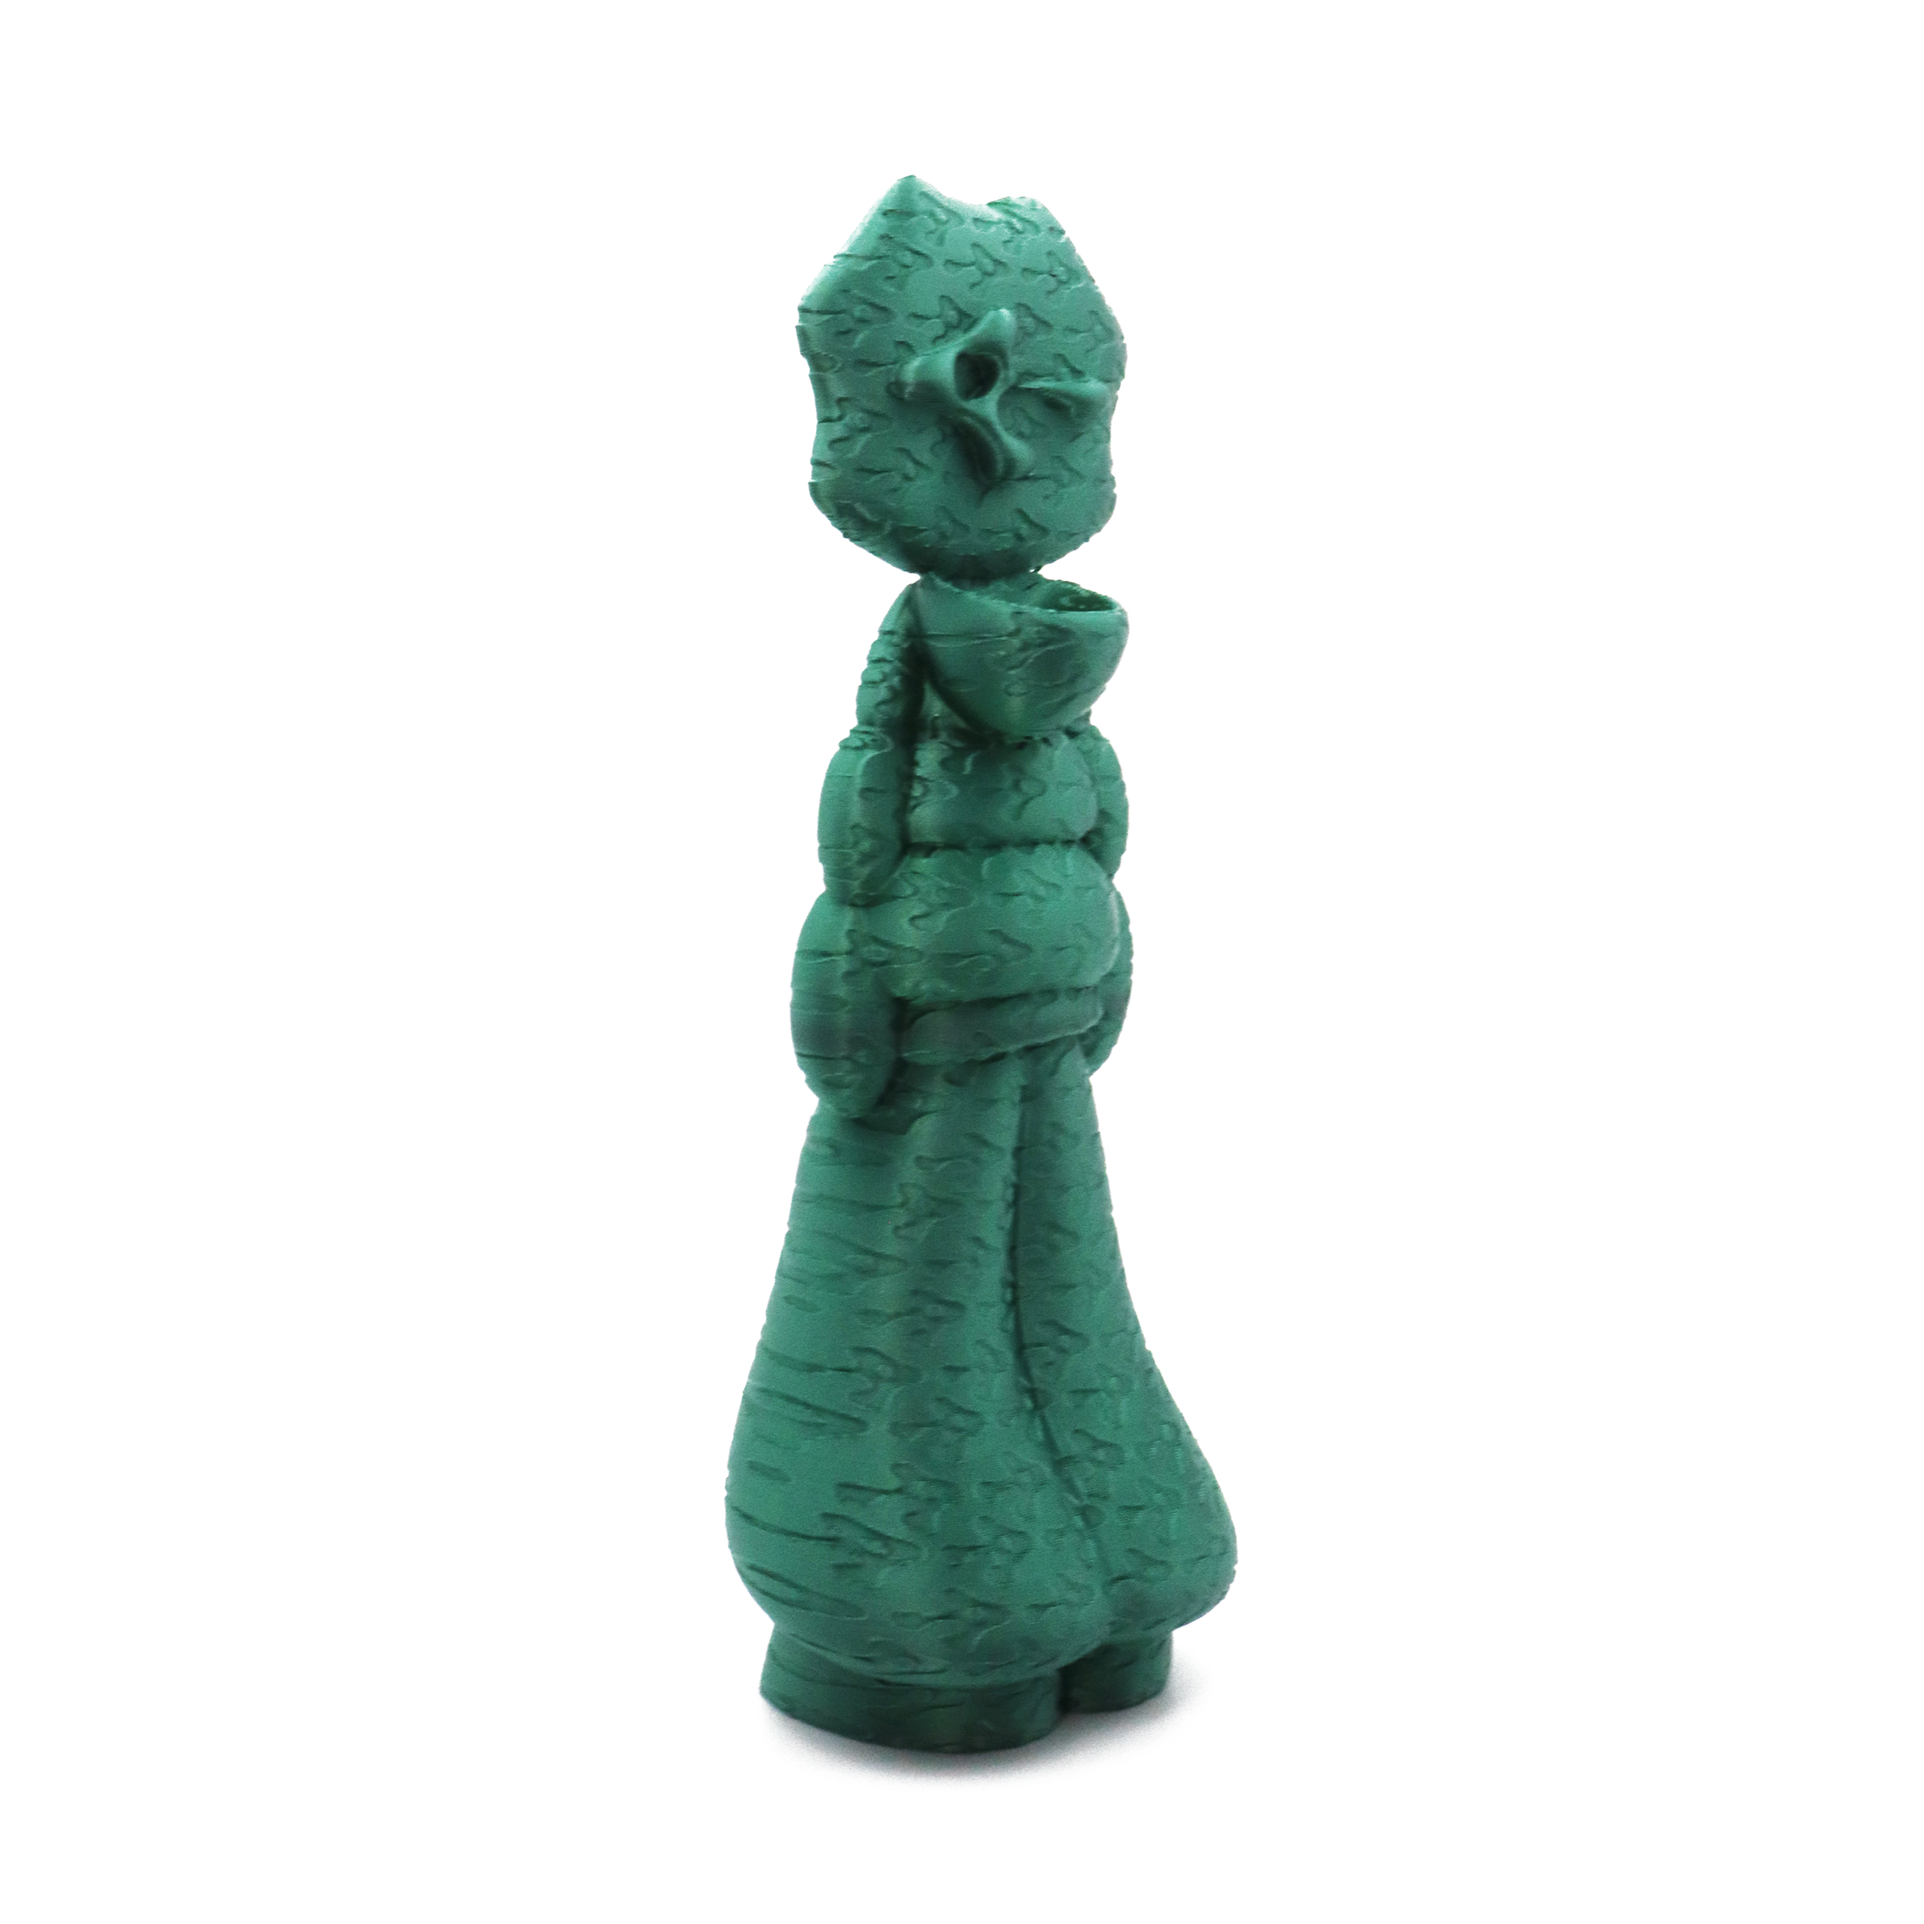
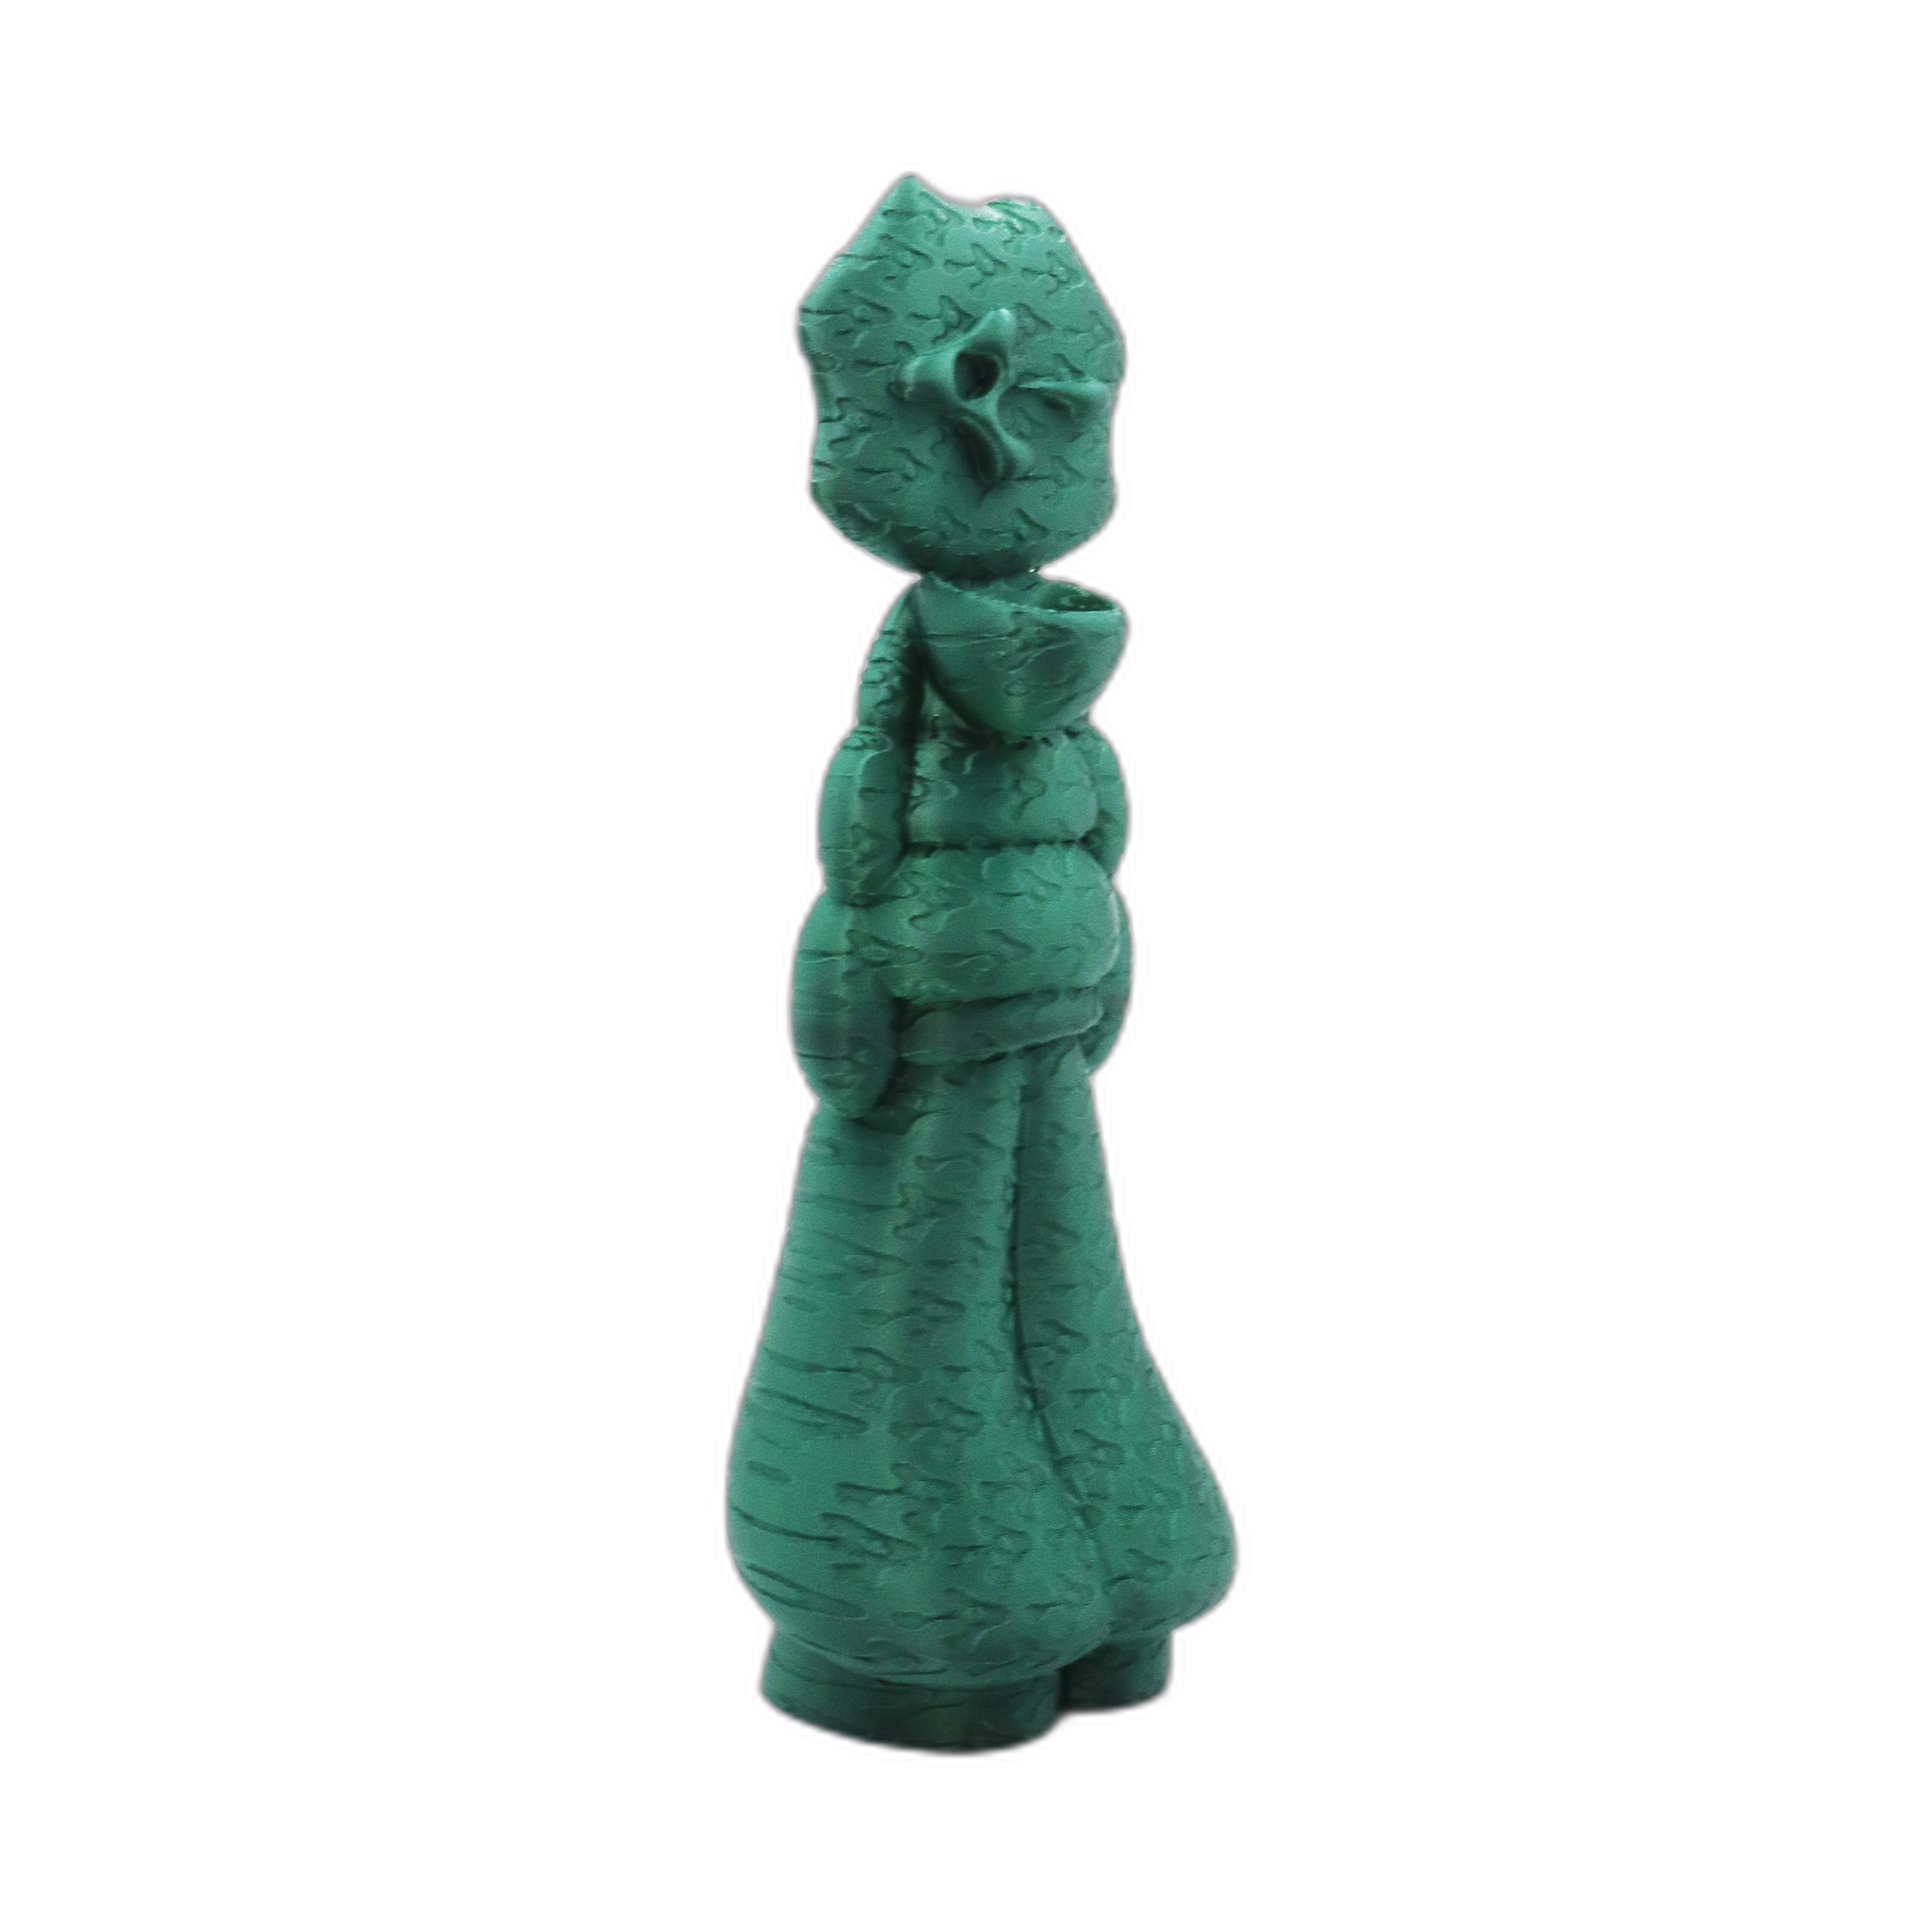
Shop: transparent product images + science lab UI upgrade
- Remove backgrounds from all back-view product images via rembg
- Replace dot grid with green crosshatch graph paper grid
- Blinking cursor on header label
- Scrolling terminal status ticker (CONTAINMENT: STABLE, TEMP, etc.)
- Corner bracket marks on every product cell (::before / ::after)
- Scan-line sweep animation on hover
- Green phosphor glow on prices and active filter button
- Monospace title + square filter buttons replace rounded pills
- Subtle green-tinted dark background (#060b07) for product cells

diff --git a/index.html b/index.html
@@ -458,57 +458,93 @@
 
         /* ── SHOP ─────────────────────────────────────────────────── */
         /* ── SHOP ─────────────────────────────────────────────────── */
+        /* ── SHOP — LABORATORY THEME ──────────────────────────────── */
+        @keyframes blink-cur  { 0%,49%{opacity:1}50%,100%{opacity:0} }
+        @keyframes scan-sweep { 0%{top:-35%} 100%{top:110%} }
+        @keyframes status-scroll {
+            0%   { transform: translateX(0); }
+            100% { transform: translateX(-50%); }
+        }
+
         .shop-wrap {
             min-height: calc(100vh - var(--nav-h));
-            background: #0a0a0a;
+            background: #060b07;
             color: #d0d0d0;
             padding: 0 18px 80px;
-            /* dot grid matches hero */
-            background-image: radial-gradient(circle, rgba(255,255,255,.03) 1px, transparent 1px);
-            background-size: 28px 28px;
-            background-attachment: local;
+            background-image:
+                linear-gradient(rgba(45,213,18,.025) 1px, transparent 1px),
+                linear-gradient(90deg, rgba(45,213,18,.025) 1px, transparent 1px);
+            background-size: 32px 32px;
         }
 
         /* Header */
         .shop-hd {
             display: flex; align-items: baseline;
             justify-content: space-between; gap: 16px;
-            padding: 36px 0 6px;
-            border-bottom: 1px solid rgba(255,255,255,.06);
-            margin-bottom: 24px;
+            padding: 36px 0 12px;
+            border-bottom: 1px solid rgba(45,213,18,.12);
+            margin-bottom: 0;
         }
-        .shop-hd-left { display: flex; flex-direction: column; gap: 3px; }
+        .shop-hd-left { display: flex; flex-direction: column; gap: 4px; }
         .shop-hd-label {
             font-family: 'Courier New', monospace;
             font-size: 8px; letter-spacing: 3px;
             color: var(--green); text-transform: uppercase;
         }
+        .shop-hd-label::after {
+            content: '_';
+            animation: blink-cur 1.1s step-end infinite;
+        }
         .shop-hd-title {
-            font-size: 22px; font-weight: 700;
-            letter-spacing: -0.5px; color: #e8e8e8;
+            font-family: 'Courier New', monospace;
+            font-size: 20px; font-weight: 700;
+            letter-spacing: 2px; color: #d8f0d8;
+            text-transform: uppercase;
         }
         .shop-hd-count {
             font-family: 'Courier New', monospace;
-            font-size: 9px; color: rgba(255,255,255,.25);
+            font-size: 9px; color: rgba(45,213,18,.4);
             letter-spacing: 2px; align-self: flex-end;
+        }
+
+        /* Status ticker */
+        .shop-status {
+            overflow: hidden;
+            padding: 7px 0;
+            border-bottom: 1px solid rgba(45,213,18,.06);
+            margin-bottom: 22px;
+        }
+        .shop-status-inner {
+            display: inline-block;
+            white-space: nowrap;
+            animation: status-scroll 28s linear infinite;
+            font-family: 'Courier New', monospace;
+            font-size: 7px; letter-spacing: 2px;
+            color: rgba(45,213,18,.3);
+            text-transform: uppercase;
+        }
+        .shop-status-inner em {
+            color: rgba(45,213,18,.6);
+            font-style: normal;
         }
 
         /* Category filter */
         .shop-filter { display: flex; gap: 6px; padding-bottom: 28px; flex-wrap: wrap; }
         .shop-filter-btn {
             height: 28px; padding: 0 14px;
-            border: 1px solid rgba(255,255,255,.1); border-radius: 100px;
+            border: 1px solid rgba(45,213,18,.15); border-radius: 2px;
             background: transparent;
             font-size: 8px; letter-spacing: 2px; text-transform: uppercase;
-            color: rgba(255,255,255,.35); cursor: pointer;
-            transition: border-color .15s, color .15s, background .15s;
+            color: rgba(45,213,18,.35); cursor: pointer;
+            transition: border-color .15s, color .15s, background .15s, box-shadow .15s;
             font-family: 'Courier New', monospace;
         }
-        .shop-filter-btn:hover  { border-color: rgba(255,255,255,.4); color: rgba(255,255,255,.7); }
+        .shop-filter-btn:hover { border-color: rgba(45,213,18,.5); color: rgba(45,213,18,.7); }
         .shop-filter-btn.active {
-            background: rgba(45,213,18,.12);
+            background: rgba(45,213,18,.08);
             border-color: var(--green);
             color: var(--green);
+            box-shadow: 0 0 10px rgba(45,213,18,.2), inset 0 0 8px rgba(45,213,18,.04);
         }
 
         /* Product grid */
@@ -516,39 +552,81 @@
             display: grid;
             grid-template-columns: repeat(3, 1fr);
             gap: 1px;
+            background: rgba(45,213,18,.06);
+            border: 1px solid rgba(45,213,18,.06);
         }
-        .shop-item { cursor: pointer; }
+        .shop-item { cursor: pointer; background: #060b07; }
         .shop-item[hidden] { display: none; }
 
         .shop-img-wrap {
             position: relative;
             aspect-ratio: 4/5;
-            background: #111;
+            background: #070d08;
             overflow: hidden;
-            border: 1px solid rgba(255,255,255,.05);
-            transition: border-color .3s;
+            border: 1px solid rgba(45,213,18,.06);
+            transition: border-color .3s, box-shadow .3s;
+        }
+
+        /* corner brackets */
+        .shop-img-wrap::before,
+        .shop-img-wrap::after {
+            content: '';
+            position: absolute;
+            width: 14px; height: 14px;
+            z-index: 4;
+            opacity: .3;
+            transition: opacity .3s;
+            pointer-events: none;
+        }
+        .shop-img-wrap::before {
+            top: 9px; left: 9px;
+            border-top: 1px solid var(--green);
+            border-left: 1px solid var(--green);
+        }
+        .shop-img-wrap::after {
+            bottom: 9px; right: 9px;
+            border-bottom: 1px solid var(--green);
+            border-right: 1px solid var(--green);
         }
         .shop-item:hover .shop-img-wrap {
-            border-color: rgba(45,213,18,.3);
-            box-shadow: 0 0 24px rgba(45,213,18,.07);
+            border-color: rgba(45,213,18,.4);
+            box-shadow: 0 0 28px rgba(45,213,18,.08);
         }
+        .shop-item:hover .shop-img-wrap::before,
+        .shop-item:hover .shop-img-wrap::after { opacity: 1; }
+
+        /* scan-line element (injected by JS) */
+        .shop-scan {
+            position: absolute;
+            left: 0; right: 0; top: -35%;
+            height: 35%;
+            background: linear-gradient(to bottom, transparent, rgba(45,213,18,.06), transparent);
+            z-index: 3;
+            pointer-events: none;
+        }
+        .shop-item:hover .shop-scan { animation: scan-sweep .85s ease-in-out forwards; }
+
         .shop-img-wrap img {
             width: 100%; height: 100%;
             object-fit: contain; display: block;
             transition: transform .55s ease;
-            padding: 12%;
+            padding: 10%;
+            filter: drop-shadow(0 6px 24px rgba(0,0,0,.7));
         }
-        .shop-item:hover .shop-img-wrap img { transform: scale(1.06); }
+        .shop-item:hover .shop-img-wrap img { transform: scale(1.05); }
 
-        /* Specimen number */
+        /* Specimen info */
         .shop-item-spec {
             font-family: 'Courier New', monospace;
             font-size: 7px; letter-spacing: 2px;
-            color: rgba(45,213,18,.4);
+            color: rgba(45,213,18,.55);
             padding: 10px 0 4px;
+            text-transform: uppercase;
         }
         .shop-item-name {
-            display: block; font-size: 10px; font-weight: 500;
+            display: block;
+            font-family: 'Courier New', monospace;
+            font-size: 10px; font-weight: 500;
             letter-spacing: 1.5px; text-transform: uppercase;
             color: rgba(255,255,255,.75); margin-bottom: 4px;
         }
@@ -556,14 +634,15 @@
             font-family: 'Courier New', monospace;
             font-size: 11px; color: var(--green);
             letter-spacing: 1px;
+            text-shadow: 0 0 8px rgba(45,213,18,.4);
         }
-        .shop-item-info { padding-bottom: 28px; }
+        .shop-item-info { padding: 0 0 28px; }
 
         /* Mobile */
         @media (max-width: 900px) {
             .shop-wrap { padding: 0 8px 60px; }
             .shop-grid { grid-template-columns: repeat(2, 1fr); }
-            .shop-hd { padding: 24px 0 6px; margin-bottom: 18px; }
+            .shop-hd { padding: 24px 0 10px; }
         }
         @media (max-width: 600px) {
             .shop-wrap { padding: 0 6px 60px; }
@@ -1343,6 +1422,13 @@
                 <span class="shop-hd-count" id="shop-count">16 specimens</span>
             </div>
 
+            <!-- STATUS TICKER -->
+            <div class="shop-status">
+                <div class="shop-status-inner">
+                    SYS_OK &nbsp;// &nbsp;SPECIMEN_DB <em>v2.4</em> &nbsp;// &nbsp;CONTAINMENT: <em>STABLE</em> &nbsp;// &nbsp;TEMP: <em>22.4°C</em> &nbsp;// &nbsp;UNITS ACTIVE: <em>23</em> &nbsp;// &nbsp;CATALOGUE: <em>RSL-2026</em> &nbsp;// &nbsp;STATUS: <em>OPERATIONAL</em> &nbsp;// &nbsp;LAST SYNC: <em>02:14:07</em> &nbsp;// &nbsp;INTEGRITY: <em>100%</em> &nbsp;//&nbsp;&nbsp;&nbsp;SYS_OK &nbsp;// &nbsp;SPECIMEN_DB <em>v2.4</em> &nbsp;// &nbsp;CONTAINMENT: <em>STABLE</em> &nbsp;// &nbsp;TEMP: <em>22.4°C</em> &nbsp;// &nbsp;UNITS ACTIVE: <em>23</em> &nbsp;// &nbsp;CATALOGUE: <em>RSL-2026</em> &nbsp;// &nbsp;STATUS: <em>OPERATIONAL</em> &nbsp;// &nbsp;LAST SYNC: <em>02:14:07</em> &nbsp;// &nbsp;INTEGRITY: <em>100%</em> &nbsp;//&nbsp;
+                </div>
+            </div>
+
             <!-- FILTER -->
             <div class="shop-filter">
                 <button class="shop-filter-btn active" onclick="filterShop('all')">All</button>
@@ -1804,6 +1890,13 @@ function refreshArrows() {
 }
 
 // ── Shop filter ───────────────────────────────────────────────────
+// Inject scan-line divs into all product image wraps
+document.querySelectorAll('.shop-img-wrap').forEach(w => {
+    const s = document.createElement('div');
+    s.className = 'shop-scan';
+    w.appendChild(s);
+});
+
 function filterShop(cat) {
     document.querySelectorAll('.shop-filter-btn').forEach(b =>
         b.classList.toggle('active', b.textContent.toLowerCase().replace(/\s/g,'') === cat ||
